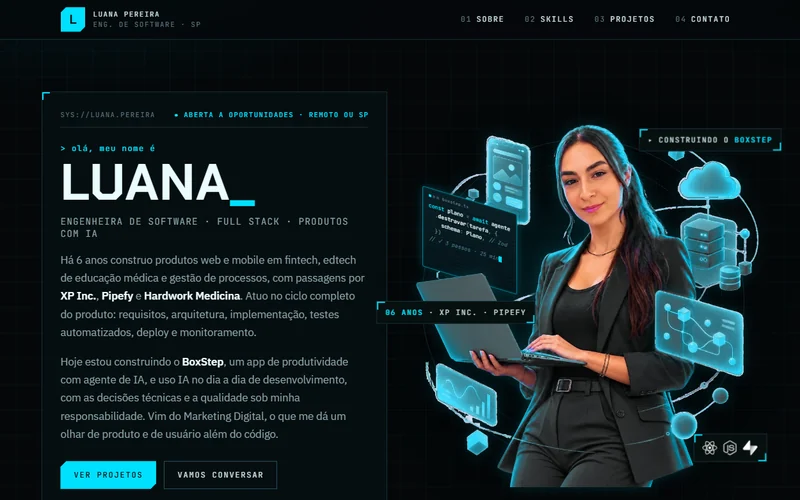
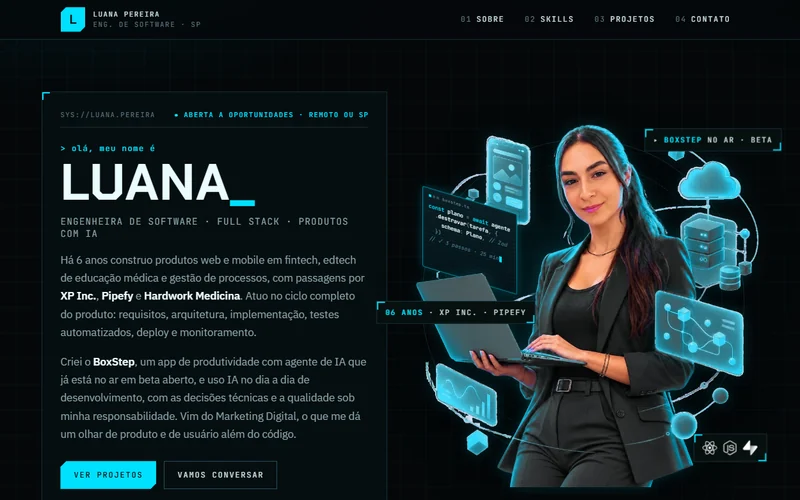
Link BoxStep now that it's live at boxstep.app
- BoxStep card: status "Beta aberto", primary button "Acessar o BoxStep"
  opening https://boxstep.app (with utm_source=portfolio so BoxStep's own
  analytics can attribute visits), secondary "Falar comigo" to contact
- Hero: copy and floating chip now say BoxStep is live in open beta
- Regenerate the "Meu Portfólio" preview screenshot with the new hero
- Update tests and comments that referenced "Pedir uma demo"

diff --git a/meu-portfolio/src/data/projects.ts b/meu-portfolio/src/data/projects.ts
@@ -1,7 +1,7 @@
 import Avocat from '../assets/avocatfeed.png'
 import PortfolioPreview from '../assets/portfolio-preview.webp'
 
-export type ProjectStatus = 'Em desenvolvimento' | 'Em produção' | 'Concluído'
+export type ProjectStatus = 'Em desenvolvimento' | 'Beta aberto' | 'Em produção' | 'Concluído'
 
 export interface ProjectLink {
   label: string
@@ -30,8 +30,8 @@ export const projects: Project[] = [
     title: 'BoxStep',
     tagline: 'Produtividade com IA: de tarefa travada a plano de ação',
     description:
-      'Aplicação que usa um agente de IA para transformar tarefas travadas em planos claros e executáveis. Produto que estou construindo de ponta a ponta, da definição do problema à arquitetura, testes e deploy.',
-    status: 'Em desenvolvimento',
+      'Aplicação que usa um agente de IA para transformar tarefas travadas em planos claros e executáveis. Produto que construí de ponta a ponta, da definição do problema à arquitetura, testes e deploy. No ar em beta aberto, grátis no navegador e no celular.',
+    status: 'Beta aberto',
     featured: true,
     highlights: [
       'Agente de IA com saídas estruturadas e validadas',
@@ -42,7 +42,15 @@ export const projects: Project[] = [
       'Testes unitários, de integração e end-to-end',
     ],
     stack: ['Next.js', 'React', 'Fastify', 'Supabase', 'PostgreSQL', 'Zod', 'Playwright'],
-    links: [{ label: 'Pedir uma demo', href: '#contact-section' }],
+    links: [
+      {
+        label: 'Acessar o BoxStep',
+        // UTM: o analytics do BoxStep mostra quantas visitas vieram do portfólio
+        href: 'https://boxstep.app/?utm_source=portfolio&utm_medium=referral&utm_campaign=card',
+        external: true,
+      },
+      { label: 'Falar comigo', href: '#contact-section' },
+    ],
   },
   {
     id: 'dashboard',

diff --git a/meu-portfolio/src/pages/Home/index.tsx b/meu-portfolio/src/pages/Home/index.tsx
@@ -151,9 +151,9 @@ const Home = () => {
           automatizados, deploy e monitoramento.
         </About>
         <About data-anim="reveal">
-          Hoje estou construindo o <strong>BoxStep</strong>, um app de produtividade
-          com agente de IA, e uso IA no dia a dia de desenvolvimento, com as decisões
-          técnicas e a qualidade sob minha responsabilidade. Vim do Marketing Digital,
+          Criei o <strong>BoxStep</strong>, um app de produtividade com agente de IA
+          que já está no ar em beta aberto, e uso IA no dia a dia de desenvolvimento,
+          com as decisões técnicas e a qualidade sob minha responsabilidade. Vim do Marketing Digital,
           o que me dá um olhar de produto e de usuário além do código.
         </About>
         <CallToAction data-anim="reveal">
@@ -196,7 +196,7 @@ const Home = () => {
 
           <ChipSlot $position="top" data-anim="chip">
             <Chip $delay={0}>
-              <span aria-hidden="true">▸</span> Construindo o <strong>BoxStep</strong>
+              <span aria-hidden="true">▸</span> <strong>BoxStep</strong> no ar · beta
             </Chip>
           </ChipSlot>
           <ChipSlot $position="left" data-anim="chip">

diff --git a/meu-portfolio/src/pages/Home/Home.test.tsx b/meu-portfolio/src/pages/Home/Home.test.tsx
@@ -20,7 +20,8 @@ describe('Home', () => {
     expect(roleCopies.filter((el) => el.getAttribute('aria-hidden') === 'true')).toHaveLength(1)
     expect(screen.getByText(/Aberta a oportunidades/i)).toBeInTheDocument()
     expect(screen.getByText('XP Inc.')).toBeInTheDocument()
-    expect(screen.getByText(/Hoje estou construindo o/)).toHaveTextContent('BoxStep')
+    expect(screen.getByText(/Criei o/)).toHaveTextContent('BoxStep')
+    expect(screen.getByText(/Criei o/)).toHaveTextContent('no ar em beta aberto')
     expect(
       screen.getByAltText(/Luana, engenheira de software/i)
     ).toBeInTheDocument()
@@ -29,7 +30,7 @@ describe('Home', () => {
   it('mostra os destaques flutuando ao redor da foto', () => {
     renderWithTheme(<Home />)
 
-    expect(screen.getByText(/Construindo o/)).toHaveTextContent('Construindo o BoxStep')
+    expect(screen.getByText(/no ar · beta/)).toHaveTextContent('BoxStep no ar · beta')
     expect(screen.getByText(/XP Inc\. · Pipefy/)).toBeInTheDocument()
     expect(screen.getByLabelText('Stack: React, Node.js, Supabase')).toBeInTheDocument()
   })

diff --git a/meu-portfolio/src/pages/Portfolio/Portfolio.test.tsx b/meu-portfolio/src/pages/Portfolio/Portfolio.test.tsx
@@ -29,15 +29,19 @@ describe('Portfolio', () => {
     })
   })
 
-  it('mostra o BoxStep em destaque com os diferenciais técnicos', () => {
+  it('mostra o BoxStep em destaque, no ar, com os diferenciais técnicos', () => {
     renderWithTheme(<Portfolio />)
 
     const card = screen.getByRole('article', { name: 'BoxStep' })
-    expect(within(card).getByText('Em desenvolvimento')).toBeInTheDocument()
+    expect(within(card).getByText('Beta aberto')).toBeInTheDocument()
     expect(
       within(card).getByRole('list', { name: /Destaques técnicos do BoxStep/i })
     ).toBeInTheDocument()
-    expect(within(card).getByRole('link', { name: /Pedir uma demo/i })).toHaveAttribute(
+
+    const app = within(card).getByRole('link', { name: /Acessar o BoxStep/i })
+    expect(app.getAttribute('href')).toMatch(/^https:\/\/boxstep\.app\/\?utm_source=portfolio/)
+    expect(app).toHaveAttribute('target', '_blank')
+    expect(within(card).getByRole('link', { name: /Falar comigo/i })).toHaveAttribute(
       'href',
       '#contact-section'
     )

diff --git a/meu-portfolio/src/analytics.test.ts b/meu-portfolio/src/analytics.test.ts
@@ -96,14 +96,14 @@ describe('installClickTracking', () => {
 
   it('transforma data-track-* em evento, inclusive clicando num filho', () => {
     document.body.innerHTML = `
-      <a href="#x" data-track="Project Link Clicked" data-track-project="boxstep" data-track-link="pedir-uma-demo">
-        <span id="inner">Pedir uma demo</span>
+      <a href="#x" data-track="Project Link Clicked" data-track-project="boxstep" data-track-link="acessar-o-boxstep">
+        <span id="inner">Acessar o BoxStep</span>
       </a>`
     document.getElementById('inner')?.click()
 
     expect(track).toHaveBeenCalledWith('Project Link Clicked', {
       project: 'boxstep',
-      link: 'pedir-uma-demo',
+      link: 'acessar-o-boxstep',
     })
   })
 

diff --git a/meu-portfolio/src/pages/Portfolio/index.tsx b/meu-portfolio/src/pages/Portfolio/index.tsx
@@ -22,7 +22,7 @@ import {
   Tagline,
 } from './styles'
 
-/** "Pedir uma demo" → "pedir-uma-demo" (valor estável para o analytics). */
+/** "Acessar o BoxStep" → "acessar-o-boxstep" (valor estável para o analytics). */
 const toSlug = (text: string) =>
   text
     .normalize('NFD')
@@ -61,7 +61,7 @@ function ProjectLinks({ project, magnetic = false }: { project: Project; magneti
   )
 }
 
-/** "PROJ-001 · ● Em desenvolvimento" — o código segue a ordem da lista de projetos. */
+/** "PROJ-001 · ● Beta aberto" — o código segue a ordem da lista de projetos. */
 function ProjectMeta({ project }: { project: Project }) {
   const code = `PROJ-${String(projects.indexOf(project) + 1).padStart(3, '0')}`
   return (
